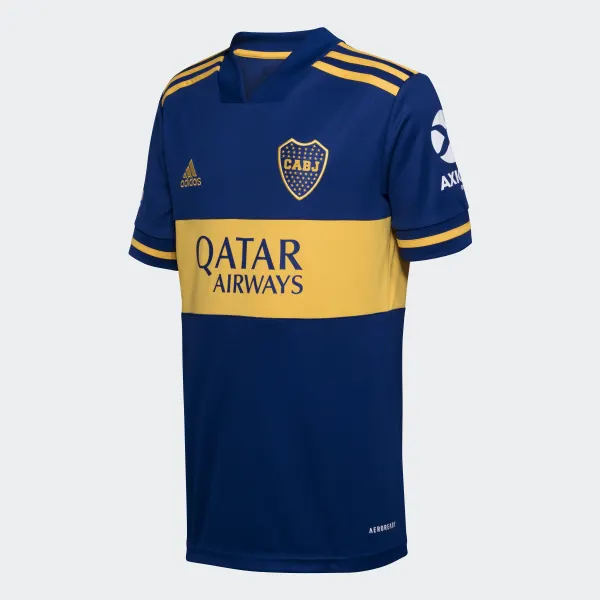
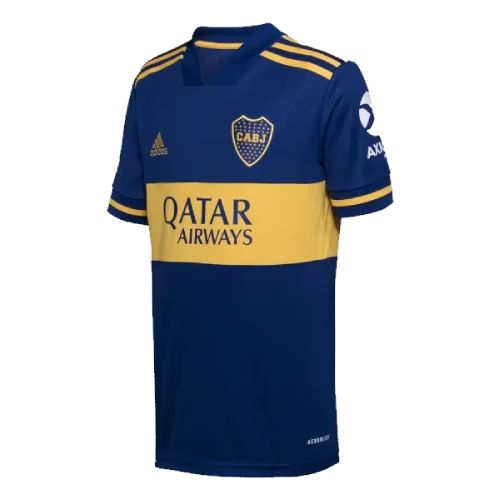
Imagenes optimizadas

diff --git a/Pages/PremierLeague.html b/Pages/PremierLeague.html
@@ -83,7 +83,7 @@ new WOW().init();
                 <div class="produn1">
                             
                         <div>
-                            <img class="producto-1" src="../Images/primera-equipacion-stadium-fc-barcelona-2022-23-camiseta-de-futbol-dri-fit-Hn9LCv.png" alt="Camiseta en venta"> 
+                            <img class="producto-1" src="../Images/premier (1).webp" alt="Camiseta en venta"> 
                         </div>                 
                         <div class="producto-text1">
                             Camiseta Barcelona 22- 10.000$   
@@ -94,7 +94,7 @@ new WOW().init();
                 <div class="produn1">
                             
                         <div>
-                            <img class="producto-1" src="../Images/primera-equipacion-stadium-fc-barcelona-2022-23-camiseta-de-futbol-dri-fit-Hn9LCv.png" alt="Camiseta en venta"> 
+                            <img class="producto-1" src="../Images/premier league 1.webp" alt="Camiseta en venta"> 
                         </div>                 
                         <div class="producto-text1">
                             Camiseta Barcelona 22- 10.000$   
@@ -105,7 +105,7 @@ new WOW().init();
                 <div class="produn1">   
                         
                         <div>
-                            <img class="producto-1" src="../Images/primera-equipacion-stadium-fc-barcelona-2022-23-camiseta-de-futbol-dri-fit-Hn9LCv.png" alt="Camiseta en venta"> 
+                            <img class="producto-1" src="../Images/premier man city.webp" alt="Camiseta en venta"> 
                         </div>                 
                         <div class="producto-text1">
                             Camiseta Barcelona 22- 10.000$   

diff --git a/index.html b/index.html
@@ -78,7 +78,7 @@ new WOW().init();
         <div class="produn1">
 
                 <div>
-                    <img class="producto-1" src="Images/primera-equipacion-stadium-fc-barcelona-2022-23-camiseta-de-futbol-dri-fit-Hn9LCv.png" alt="Camiseta en venta"> 
+                    <img class="producto-1" src="Images/premier man city.webp" alt="Camiseta en venta"> 
                 </div>      
                 <div class="producto-text1">
                     Camiseta Barcelona 22- 10.000$    
@@ -128,7 +128,7 @@ new WOW().init();
     <div class="produn1">
         
             <div>
-                <img class="producto-1" src="Images/primera-equipacion-stadium-fc-barcelona-2022-23-camiseta-de-futbol-dri-fit-Hn9LCv.png" alt="Camiseta en venta"> 
+                <img class="producto-1" src="Images/boca-camiseta-1.webp" alt="Camiseta en venta"> 
             </div>    
             <div class="producto-text1">
                 Camiseta Barcelona 22- 10.000$   
@@ -141,7 +141,7 @@ new WOW().init();
     <div class="produn1">
         
             <div>
-                <img class="producto-1" src="Images/primera-equipacion-stadium-fc-barcelona-2022-23-camiseta-de-futbol-dri-fit-Hn9LCv.png" alt="Camiseta en venta"> 
+                <img class="producto-1" src="Images/premier (1).webp" alt="Camiseta en venta"> 
             </div>  
             <div class="producto-text1">
                 Camiseta Barcelona 22- 10.000$   

diff --git a/Pages/Internacional.html b/Pages/Internacional.html
@@ -88,7 +88,7 @@ new WOW().init();
                         <img class="producto-1" src="../Images/PHOTOPEA-internacional-2.png" alt="Camiseta en venta"> 
                     </div>                 
                     <div class="producto-text1">
-                        Camiseta Ecuador 22- 8.000$   
+                        Camiseta Ecuador 22- 10.000$   
                     </div>
             </div>                   
         </a> 
@@ -98,14 +98,14 @@ new WOW().init();
                         <img class="producto-1" src="../Images/internacional-buscada-2 (1).png" alt="Camiseta en venta"> 
                     </div>   
                     <div class="producto-text1">
-                        Camiseta Messi Argentina 22- 10.000$    
+                        Camiseta Messi Argentina 22- 15.000$    
                     </div>  
             </div> 
         </a>  
         <a href="#">
             <div class="produn1">
                     <div>
-                        <img class="producto-1" src="../Images/internacional-buscada-1.png" alt="Camiseta en venta"> 
+                        <img class="producto-1" src="../Images/internacional-buscada-1.webp" alt="Camiseta en venta"> 
                     </div>   
                     <div class="producto-text1">
                         Camiseta Francia 22- 9.500$    

diff --git a/Pages/Liga Argentina.html b/Pages/Liga Argentina.html
@@ -75,13 +75,14 @@ new WOW().init();
     </section>
 </div>
 
-<section>
+<section class="header-arg">
     <div class="wow slideInLeft">
-        <h1 class="header-arg">•BOCA JUNIORS•</h1>
+        <h1 >•BOCA JUNIORS•</h1>
+        <img src="../Images/boca-campeon-libertadores-2003.webp" alt="">
     </div>
 </section>
   
-<section class="boca">    
+
     <section class="produccion"> 
         <a href="#">
             <div class="produn1"> 
@@ -100,7 +101,7 @@ new WOW().init();
             <div class="produn1">
                 
                     <div>           
-                        <img class="producto-1" src="../Images/boca-camiseta-2.jpg" alt="Camiseta en venta"> 
+                        <img class="producto-1" src="../Images/boca-camiseta-2.webp" alt="Camiseta en venta"> 
                     </div>  
                     
                     <div class="producto-text1">
@@ -120,7 +121,7 @@ new WOW().init();
             </div> 
         </a>    
     </section>
-</section>
+
 
 </body>
 
